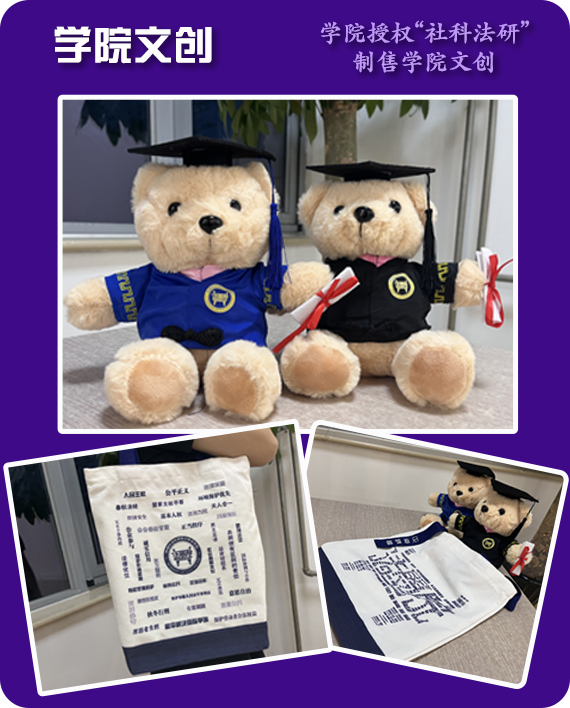
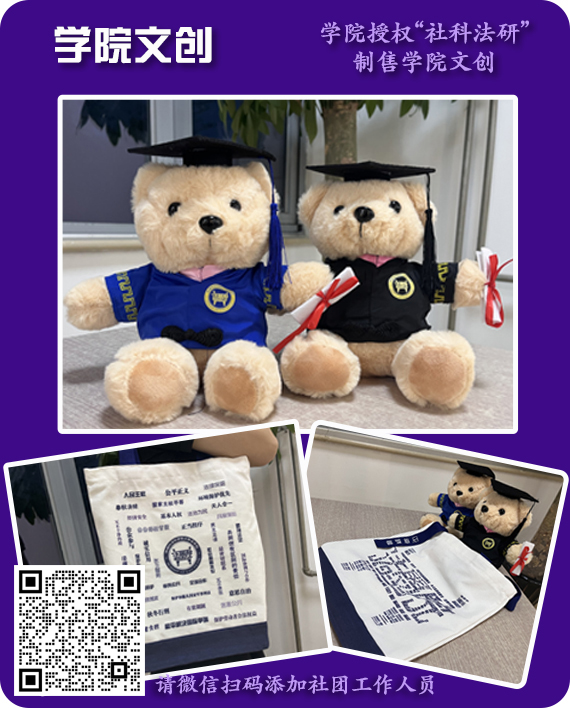
fd

Changed region(s): [[0.0, 0.7768, 0.7754, 0.9944]]

diff --git a/index.html b/index.html
@@ -253,7 +253,7 @@
                         <i class="fas fa-headset"></i>
                         <div class="detail ms-3">
                             <h4 class="w3l-subtitle">购买途径及单价</h4>
-                            <p>购买请联系社团工作人员电话或微信（17829398922或18333036112）
+                            <p>请微信扫码添加社团工作人员后，咨询购买。（微信二维码见文创图片）
                             </p>
                             <p>单价：熊30元/个，帆布包25元/个
                             </p>
